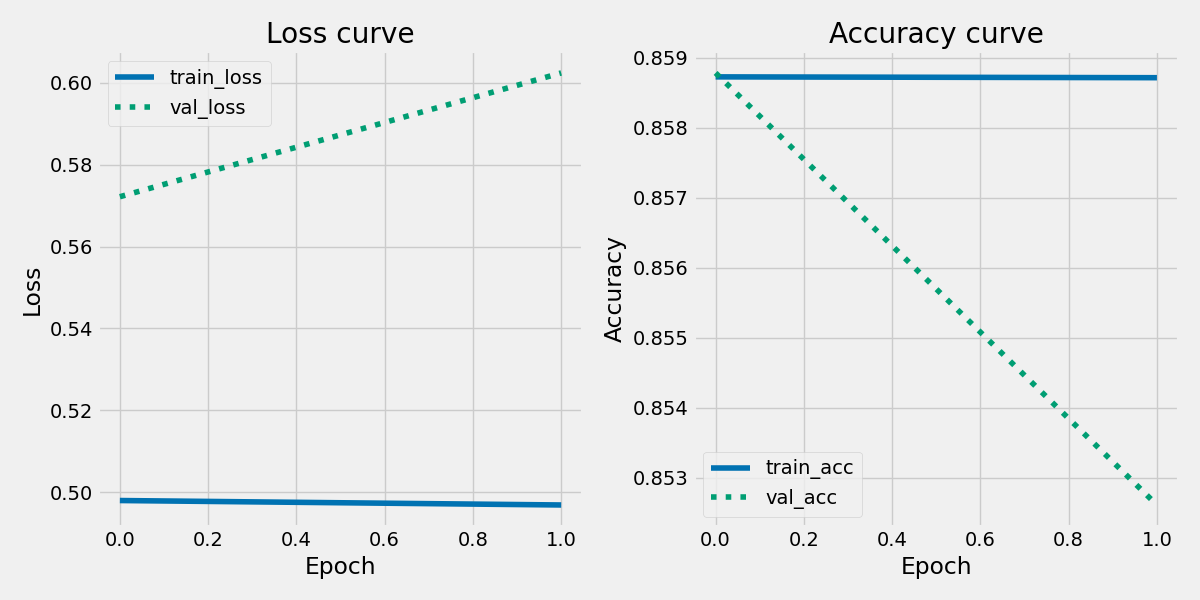
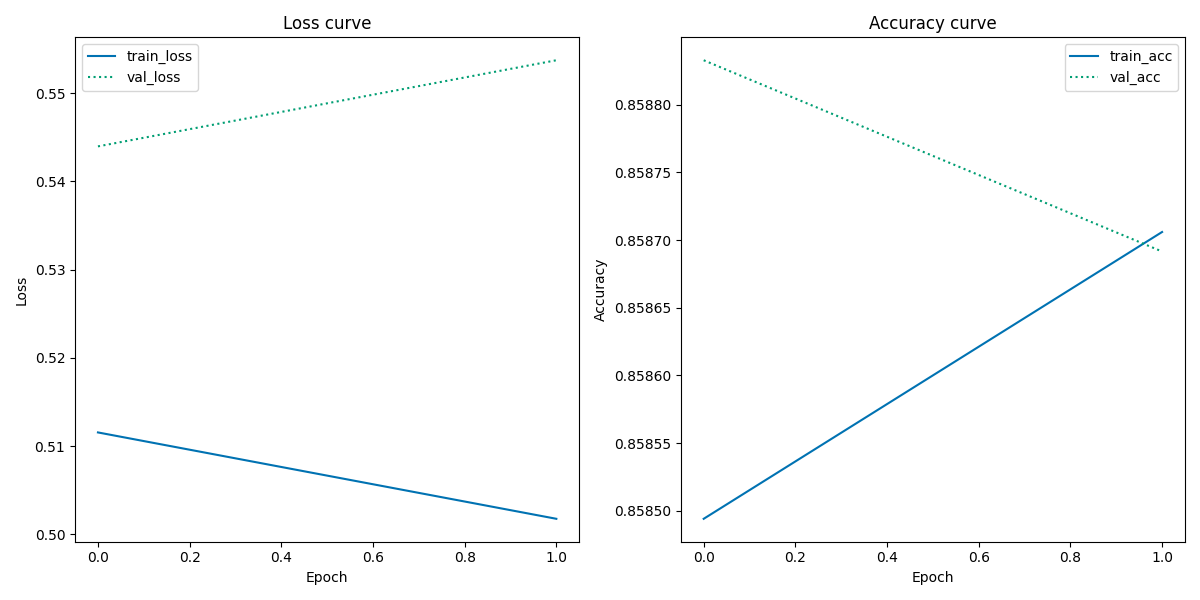
deleting notebook

diff --git a/src/pretrained.py b/src/pretrained.py
@@ -1,0 +1,157 @@
+# %%
+# tf tools
+import tensorflow as tf
+
+# image processsing
+from tensorflow.keras.preprocessing.image import (load_img,
+                                                  img_to_array,
+                                                  ImageDataGenerator)
+# VGG16 model
+from tensorflow.keras.applications.vgg16 import (preprocess_input,
+                                                 decode_predictions,
+                                                 VGG16)
+
+# layers
+from tensorflow.keras.layers import (Flatten, 
+                                     Dense, 
+                                     Dropout, 
+                                     BatchNormalization)
+# generic model object
+from tensorflow.keras.models import Model
+
+# optimizers
+from tensorflow.keras.optimizers.schedules import ExponentialDecay
+from tensorflow.keras.optimizers import SGD
+
+#scikit-learn
+from sklearn.preprocessing import LabelBinarizer
+from sklearn.metrics import classification_report
+
+# for plotting
+import numpy as np
+import matplotlib.pyplot as plt
+import pandas as pd
+import os
+
+# %%
+#loading VGG16 without the classification layers and disableling the convolutional layers
+model = VGG16()
+
+# %%
+#Creating lables
+def lables(type):
+    df = pd.read_json(f"../../images/metadata/{type}_data.json", lines=True)
+    lables = df['class_label']
+    unique_classes = lables.unique()
+    
+    return lables, unique_classes
+
+# %%
+train_lables = lables("train")[0]
+test_lables = lables("test")[0]
+
+# %%
+# integers to one-hot vectors
+lb = LabelBinarizer()
+train_lables = lb.fit_transform(train_lables)
+test_lables = lb.fit_transform(test_lables)
+
+labelNames = lables("train")[1]
+labelNames = labelNames.tolist()
+
+# %%
+#Data directory
+train_data_dir = os.path.join("../../images/")
+batch_size = 32
+image_size = (224, 224)  # Adjust the dimensions as per your requirements
+
+# %%
+# load model without classifier layers
+model = VGG16(include_top=False, 
+              pooling='avg',
+              input_shape=(32, 32, 3))
+
+# mark loaded layers as not trainable
+for layer in model.layers:
+    layer.trainable = False
+
+# %%
+tf.keras.backend.clear_session()
+# add new classifier layers
+flat1 = Flatten()(model.layers[-1].output)
+class1 = Dense(128, activation='relu')(flat1)
+output = Dense(10, activation='softmax')(class1)
+
+# define new model
+model = Model(inputs=model.inputs, 
+              outputs=output)
+
+# %%
+lr_schedule = tf.keras.optimizers.schedules.ExponentialDecay(
+    initial_learning_rate=0.01,
+    decay_steps=10000,
+    decay_rate=0.9)
+sgd = SGD(learning_rate=lr_schedule)
+
+model.compile(optimizer=sgd,
+              loss='sparse_categorical_crossentropy',
+              metrics=['accuracy'])
+
+# %%
+train_datagen = ImageDataGenerator(rescale=1./255,
+    shear_range=0.2,
+    zoom_range=0.2,
+    horizontal_flip=True,
+    validation_split=0.2) # set validation split
+
+train_generator = train_datagen.flow_from_directory(
+    train_data_dir,
+    target_size=(32, 32),
+    batch_size=batch_size,
+    class_mode='binary',
+    subset='training') # set as training data
+
+validation_generator = train_datagen.flow_from_directory(
+    train_data_dir, # same directory as training data
+    target_size=(32, 32),
+    batch_size=batch_size,
+    class_mode='binary',
+    subset='validation') # set as validation data
+
+H = model.fit_generator(
+    train_generator,
+    steps_per_epoch = train_generator.samples // batch_size,
+    validation_data = validation_generator, 
+    validation_steps = validation_generator.samples // batch_size,
+    epochs = 2) 
+
+# %%
+def plot_history(H, epochs):
+    plt.style.use("seaborn-colorblind")
+
+    plt.figure(figsize=(12,6))
+    plt.subplot(1,2,1)
+    plt.plot(np.arange(0, epochs), H.history["loss"], label="train_loss")
+    plt.plot(np.arange(0, epochs), H.history["val_loss"], label="val_loss", linestyle=":")
+    plt.title("Loss curve")
+    plt.xlabel("Epoch")
+    plt.ylabel("Loss")
+    plt.tight_layout()
+    plt.legend()
+
+    plt.subplot(1,2,2)
+    plt.plot(np.arange(0, epochs), H.history["accuracy"], label="train_acc")
+    plt.plot(np.arange(0, epochs), H.history["val_accuracy"], label="val_acc", linestyle=":")
+    plt.title("Accuracy curve")
+    plt.xlabel("Epoch")
+    plt.ylabel("Accuracy")
+    plt.tight_layout()
+    plt.legend()
+    plt.savefig("../out/loss_accuracy_curve.png", format="png") # specify filetype explicitly
+    plt.show()
+
+    plt.close()
+
+
+# %%
+plot_history(H, 2)

diff --git a/README.md b/README.md
@@ -2,7 +2,7 @@
 [![Open in Visual Studio Code](https://classroom.github.com/assets/open-in-vscode-718a45dd9cf7e7f842a935f5ebbe5719a5e09af4491e668f4dbf3b35d5cca122.svg)](https://classroom.github.com/online_ide?assignment_repo_id=11016919&assignment_repo_type=AssignmentRepo)
 # Using pretrained CNNs for image classification
 
-## Project description by Ross
+## Description
 In the previous assignments involving classification, we were performing a kind of simple feature extraction on images by making them greyscale and flattening them to a single vector. This vector of pixel values was then used as the input for some kind of classification model.
 
 For this assignment, we're going to be working with an interesting kind of cultural phenomenon - fashion. On UCloud, you have access to a dataset of *Indo fashion* taken from this [Kaggle dataset](https://www.kaggle.com/datasets/validmodel/indo-fashion-dataset). There is a paper which goes along with it on *arXiv.org*, which you can read [here](https://arxiv.org/abs/2104.02830).
@@ -21,41 +21,38 @@ Tips
 - There are a lot of images, around 106k in total. Make sure to reserve enough time for running your code!
 - The image labels are in the metadata folder, stored as JSON files. These can be read into ```pandas``` using ```read_json()```. You can find the documentation for that online.
 
-## Data
-
-This project trains a classifier on the IndoFashion dataset using VGG. The data consists of 106K images and 15 unique cloth categories. The data is split into training, test and validation and can be accessed on Kaggle via this link: [https://www.kaggle.com/datasets/validmodel/indo-fashion-dataset](https://www.kaggle.com/datasets/validmodel/indo-fashion-dataset)
-
-The dataset is not is the repository and needs to be loaded separately.
+## Methods
+The ImageDataGenerator and flow_from_directory() are used to load and read the images from the IndoFashion dataset. The VGG16 model is initialised and loaded without the classifier layers and then trained on the IndoFashion images. The results are saved in the form of a history plot (loss and accuracy curve).
 
 ## How to Install and Run the Project
-
 Loading the data:
 
-1. Download the data via the link above. 
-2. Load the data outside of this repository. Your working repository should look like this:
+1. Download the data via this link: https://www.kaggle.com/datasets/validmodel/indo-fashion-dataset or load through UCloud.
 
-├── current directory/project repository
+2. Clone this repository
+
+3. Load the data outside of this repository. Your working repository should look like this:
+├── assignment3-pretrained-cnns-AneliaAB
 
 ├── images
 
-|   └── metadata
+| └── metadata
 
-|   └── test
+| └── test
 
-|   ├── train
+| ├── train
 
-|   ├── val
+| ├── val
 
 Installation:
+4. Navigate from the root of your working directory to ```assignment3-pretrained-cnns-AneliaAB```
+5. Run the setup file, which will install all the requirements by writing ```bash setup.sh``` in the terminal
 
-1. First you need to clone the project repository
-2. Navigate from the root of your working directory to **assignment3-pretrained-cnns-AneliaAB**
-3. Run the setup file, which will install all the requirements by writing `bash setup.sh` in the terminal
-4. Navigate to the folder `scr` and run the script by writing `python code.py` in the terminal or run the notebook `code.ipynb` 
+Run the script:
+6. Navigate to the folder ```src``` of this projects repository by writing ```cd src``` in the terminal, assuming your current directory is assignment3-pretrained-cnns-AneliaAB
+7. Run the script by writing python ```pretrained.py``` in the terminal
 
-## Results
+After installing and running the scripts, you should be able to see the results in the out folder.
 
-After installing and running the scripts, you should be able to see the results in the `out` folder. 
-
-- Classification report
-- Training and validation history plots
+## Discussion of Results
+The script has generated histograms, which show the learning performance of the classification model. Unfortunately due to not being able to log into a big enough machine on UCloud, I chose to only do 2 epochs. This means that the model is not trained properly, which also is reflected in the learning curves. Ideally the classifier would be trained on a higher number of epochs; and the train and validation curves would decrease to the point of stability and the gap between them would close. The results of this project are insufficient. 
